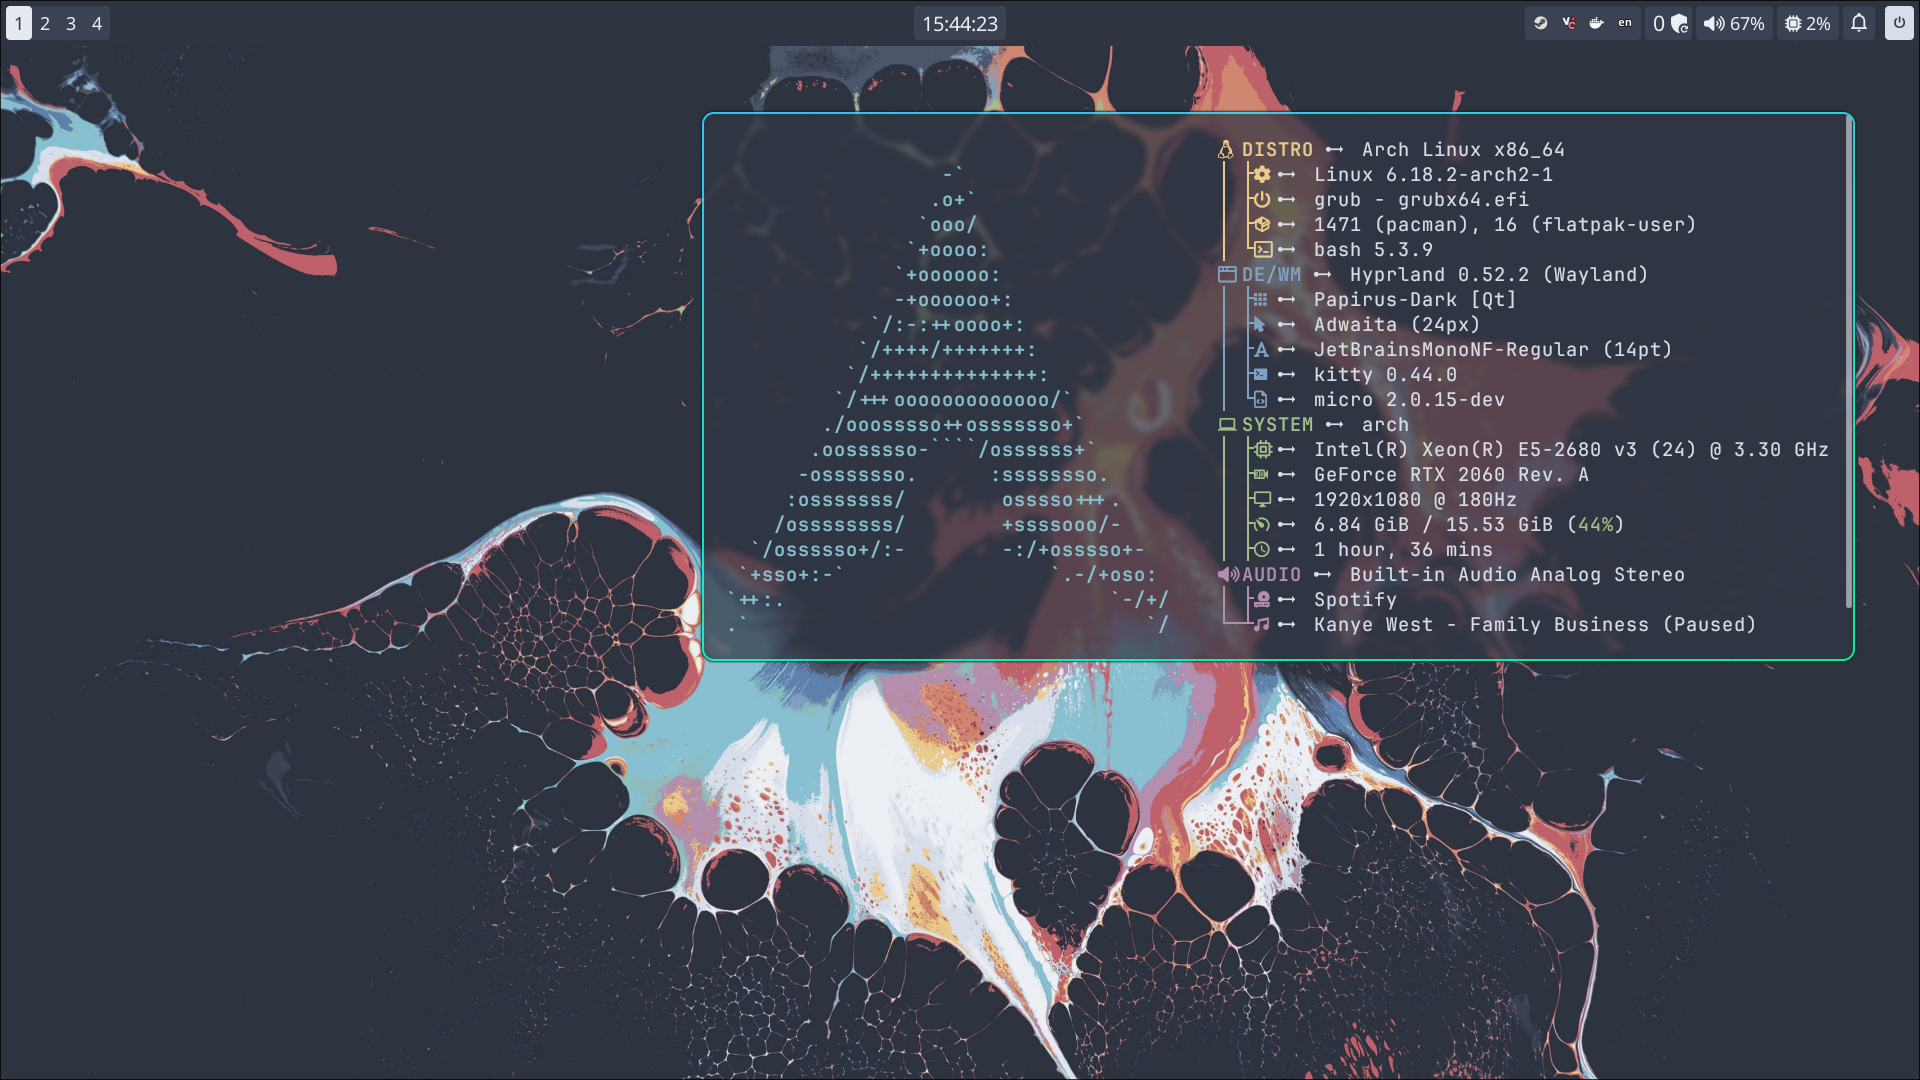
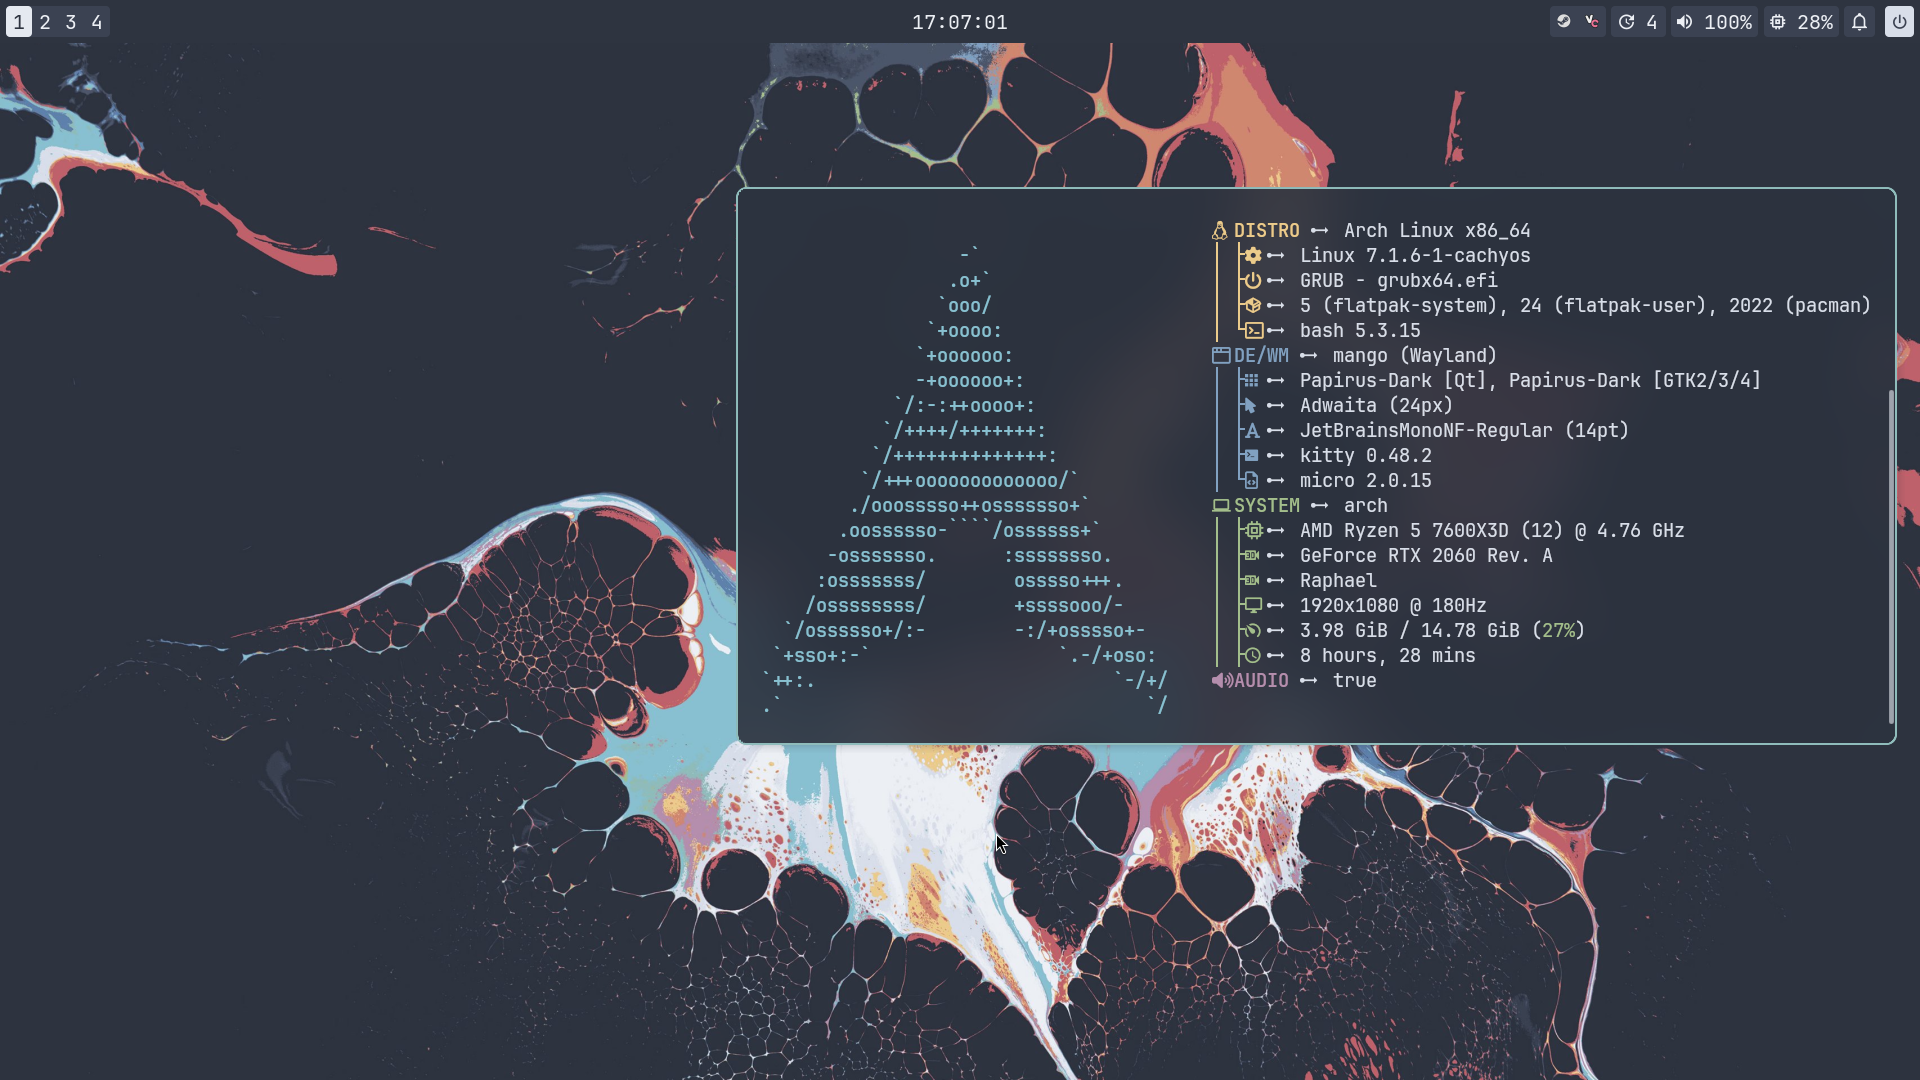
Update Screenshot and README

diff --git a/README.md b/README.md
@@ -1,5 +1,5 @@
 # Dotfiles
 
-Just my dotfiles for Arch (btw) + Hyprland.
+Just my dotfiles for Arch + Mango.
 
 ![](./screenshot.png)
